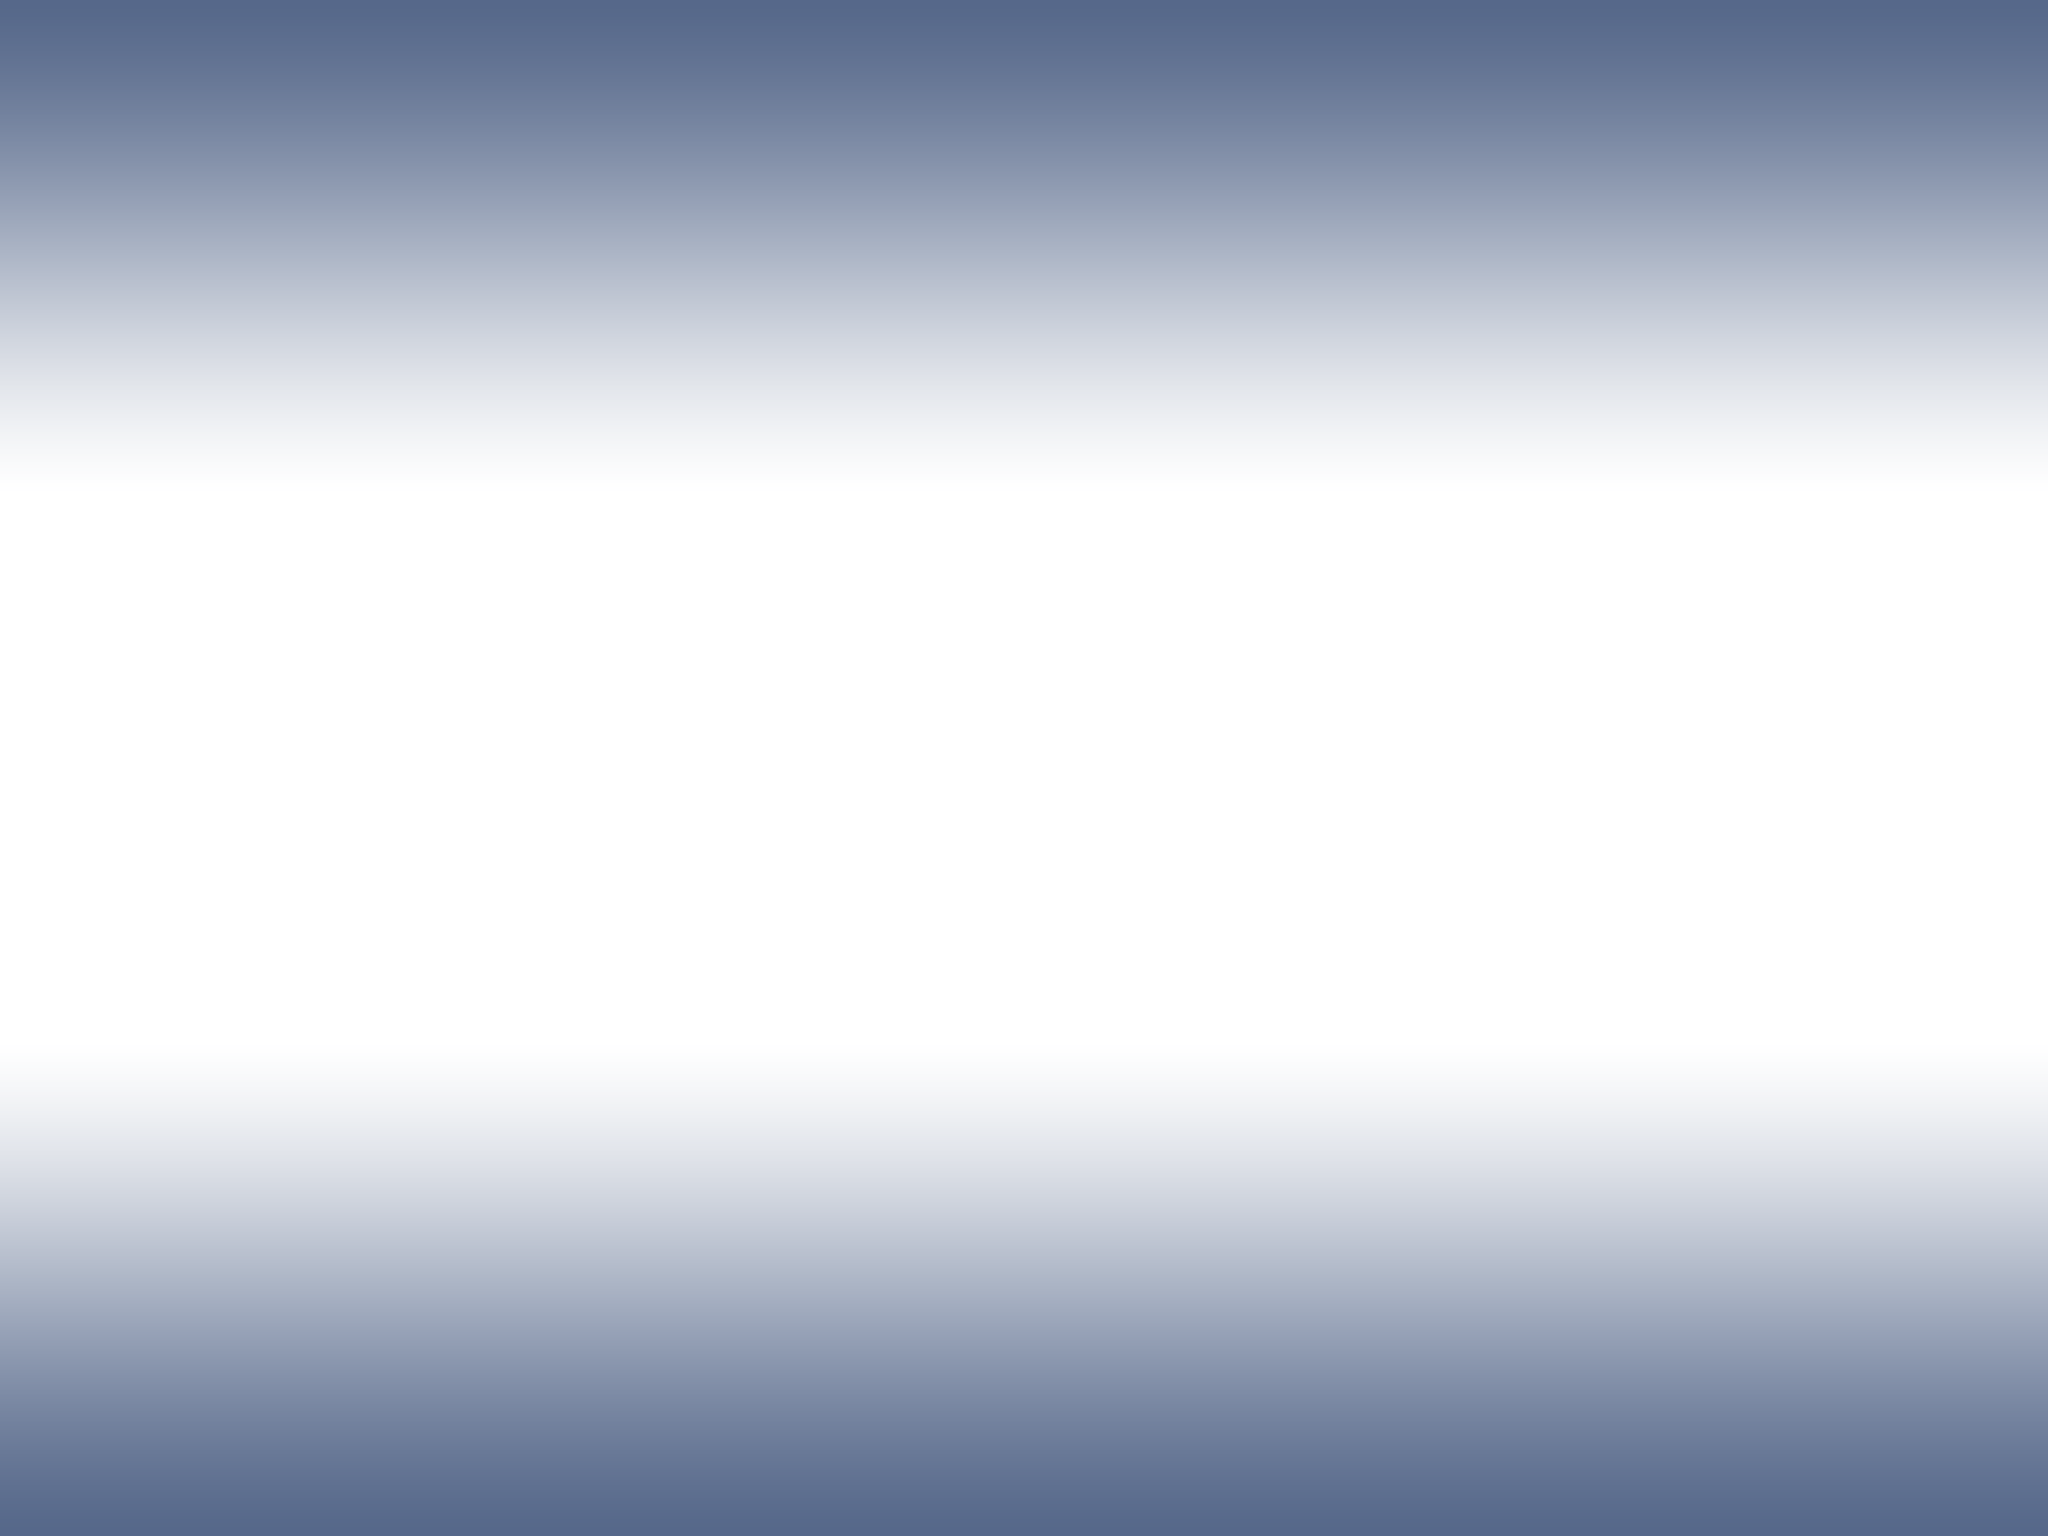
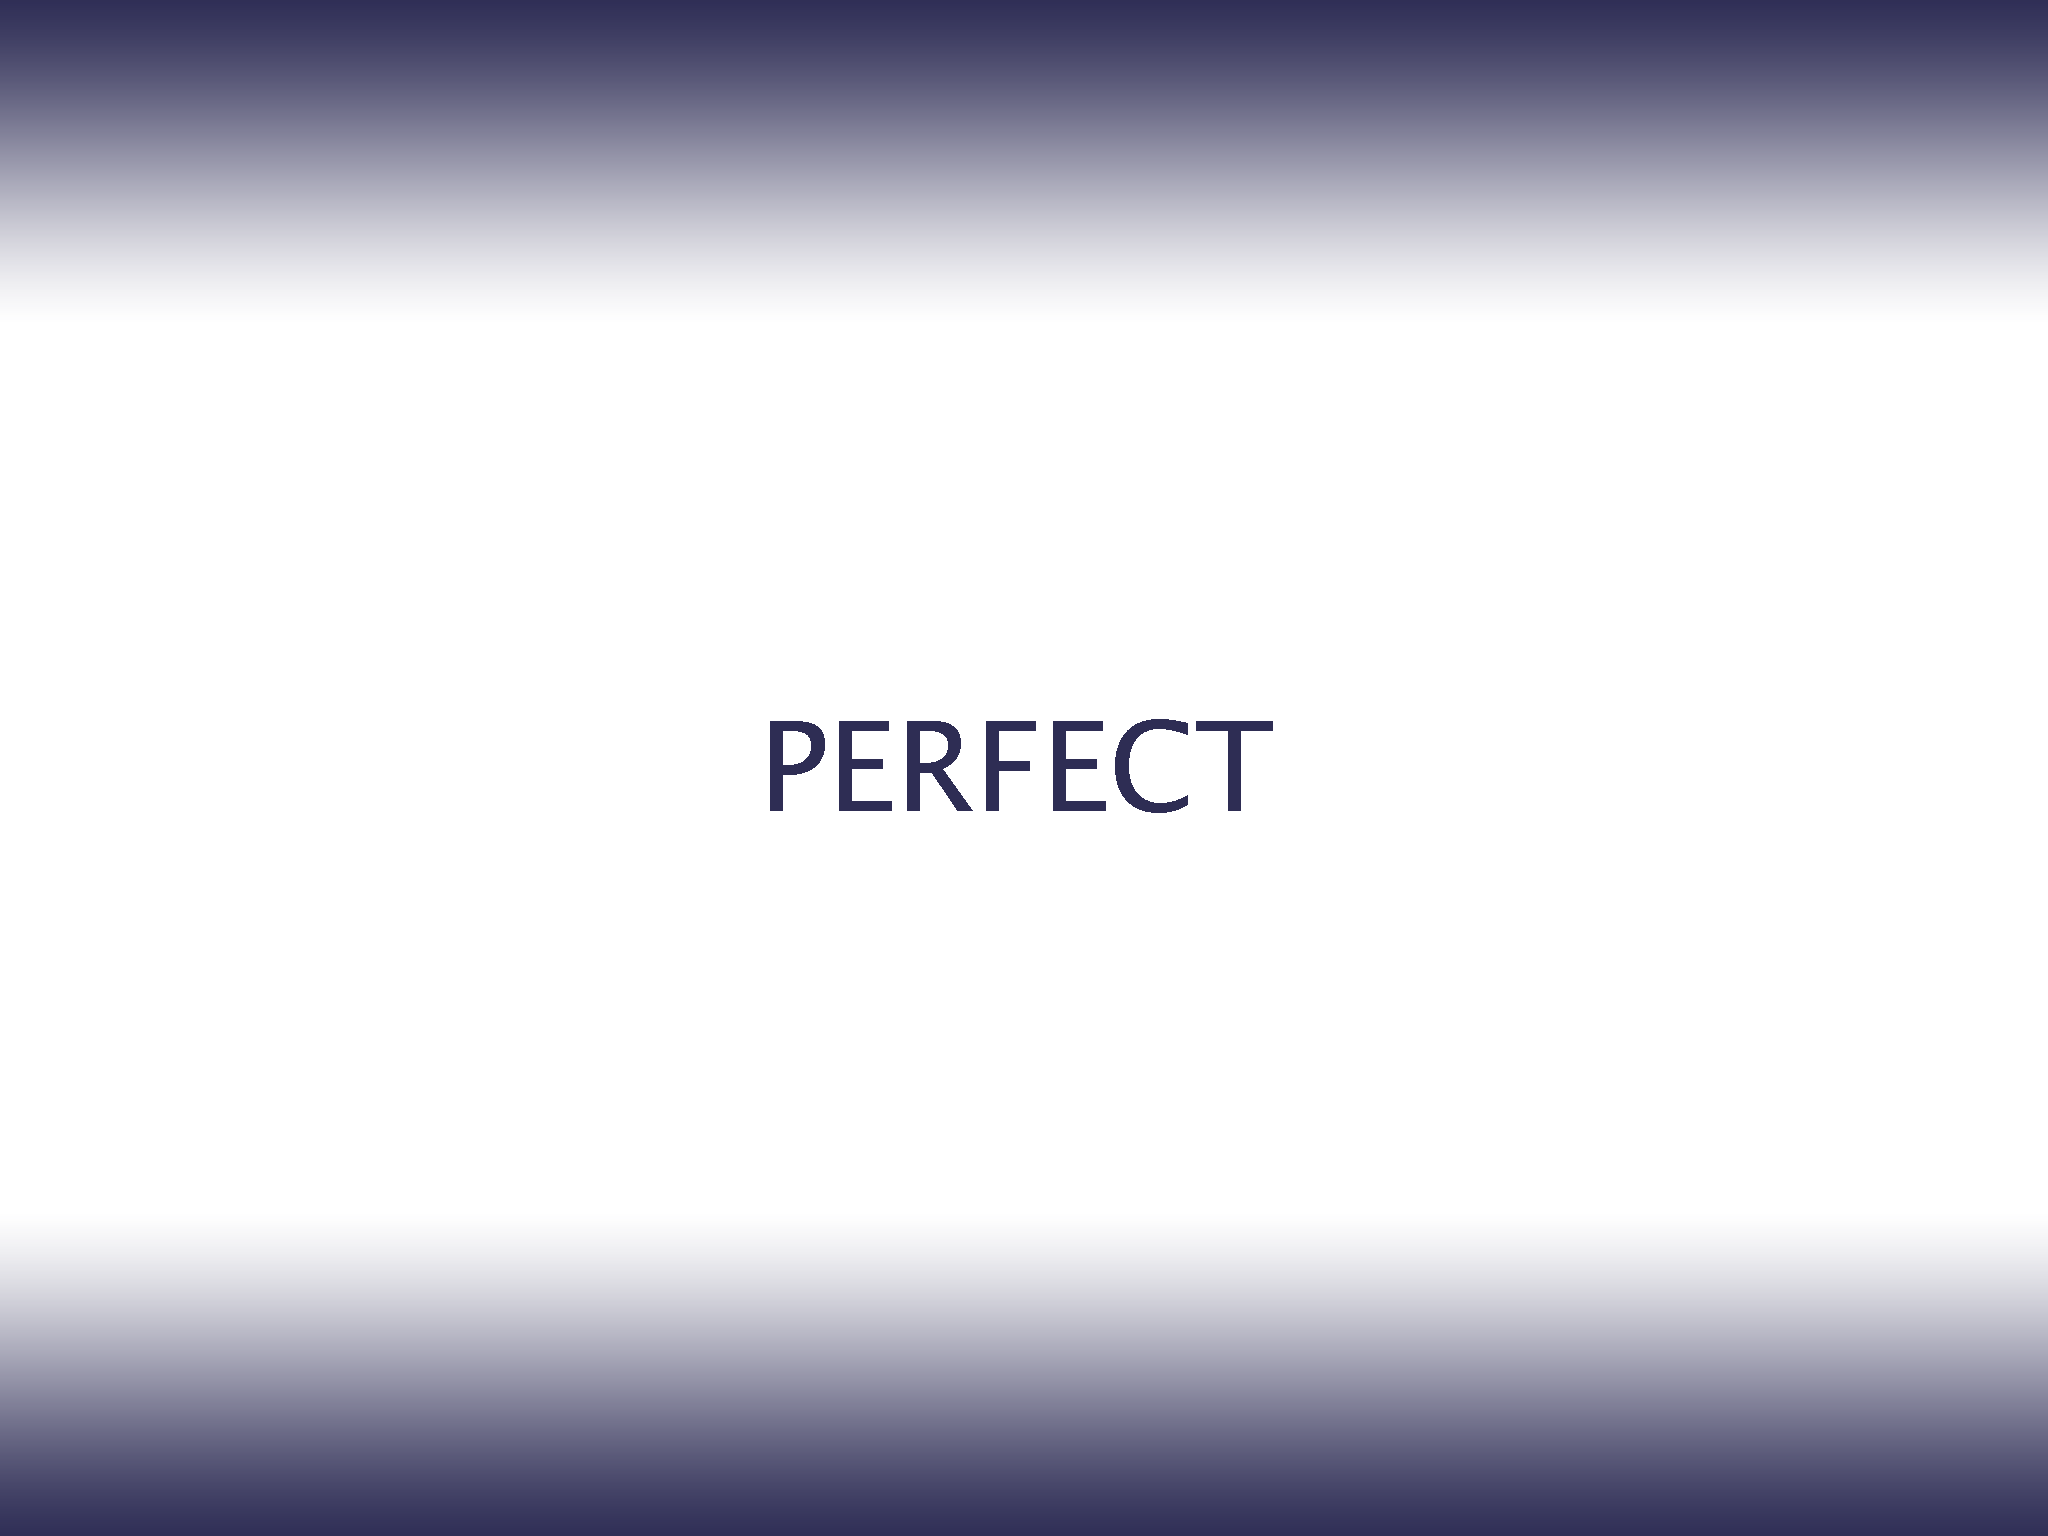
First Music

diff --git a/src/GameLayer.js b/src/GameLayer.js
@@ -1,4 +1,4 @@
-var gameScale = 0.25;
+var gameScale = 0.5;
 var screenWidth = 2048*gameScale;
 var screenHeight = 1536*gameScale;
 
@@ -12,7 +12,7 @@ var GameLayer = cc.LayerColor.extend({
         this.combo=0;
         this.perfect=0;
         this.great=0;
-        this.bad=0;
+        this.cool=0;
         this.miss=0;
 
         this._super( new cc.Color4B( 127, 127, 127, 255 ) );
@@ -28,10 +28,14 @@ var GameLayer = cc.LayerColor.extend({
         this.player.setPosition( GameLayer.PLAYER_POS );
         this.addChild( this.player );
 
+        this.crashEffect = new crashEffect(this);
+        this.addChild(this.crashEffect);
+
         this.state = GameLayer.STATES.FRONT;
         this.setKeyboardEnabled( true );
         this.scheduleUpdate();
         this.startGame();
+        this.startSong("sound");
         return true;
     },
     startGame: function() {
@@ -49,11 +53,17 @@ var GameLayer = cc.LayerColor.extend({
             var pos = this.units[i].getPosition();
             var endPos = new cc.Point( 2*screenWidth , pos.y );
             this.units[i].endPos = endPos;
+            if(i%2==0)
+                this.units[i].setRotation(90);
             var moveAction = cc.MoveTo.create( GameLayer.UNIT_VELOCITY+timePerGap*i+timeForStart, this.units[i].endPos );
             this.units[i].runAction( moveAction );
         }
     },
+    startSong: function( songKey){
+         this.sound = createjs.Sound.play(songKey);
+    },
     crashEffectPlay: function( type ) {
+        console.trace();
         var spu = GameLayer.SCORE_PER_UNIT;
         if(type=="perfect") {
             this.score+=(spu+GameLayer.SCORE_PER_COMBO*this.combo);
@@ -67,8 +77,8 @@ var GameLayer = cc.LayerColor.extend({
         }
         else if(type=="cool") {
             this.score+=(spu/4+GameLayer.SCORE_PER_COMBO*this.combo);
-            this.combo=0;
-            this.bad++;
+            this.combo++;
+            this.cool++;
         }
         else if(type=="miss") {
             this.combo=0;
@@ -81,8 +91,7 @@ var GameLayer = cc.LayerColor.extend({
         console.log("Score: "+this.score);
         console.log("Max Combo: "+this.maxCombo);
         console.log("Combo: "+this.combo);
-        var effect = new crashEffect(this,type);
-        this.addChild(effect);
+        this.crashEffect.reset(type);
     },
     isMaxCombo: function( combo ) {
         if(combo>this.maxCombo)
@@ -155,7 +164,7 @@ GameLayer.TURN = {
     RIGHT: 2
 }
 GameLayer.PLAYER_POS = new cc.Point( 3*screenWidth/4, screenHeight/2 );
-GameLayer.UNIT_NUMBER = 6;
+GameLayer.UNIT_NUMBER = 7;
 GameLayer.UNIT_GAP = (2*screenWidth)/GameLayer.UNIT_NUMBER;
 GameLayer.UNIT_VELOCITY = 7; //sec in one round
 GameLayer.UNIT_TURN_SPEED = 4;

diff --git a/main.js b/main.js
@@ -8,6 +8,8 @@ var cocos2dApp = cc.Application.extend({
         cc.initDebugSetting();
         cc.setup( this.config[ 'tag' ] );
         cc.AppController.shareAppController().didFinishLaunchingWithOptions();
+
+        createjs.Sound.registerSound("musics/roar-katyperry.mp3", "sound");
     },
 
     applicationDidFinishLaunching: function() {
@@ -22,10 +24,39 @@ var cocos2dApp = cc.Application.extend({
         // set FPS. the default value is 1.0/60 if you don't call this
         director.setAnimationInterval( 1.0 / this.config[ 'frameRate' ] );
 
-        director.runWithScene( new this.startScene() );
+        cc.LoaderScene.preload( this.config.resourceFiles , function(){
+            director.replaceScene( new this.startScene() );
+        } , this );
 
         return true;
     }
 });
+
+// monkey patching cocos audio engine to pause soundjs
+(function(){
+
+    var origPlay = createjs.Sound.play;
+    var soundList = [];
+    createjs.Sound.play = function(){
+        var sound = origPlay.apply(null, arguments);
+        soundList.push(sound);
+        return sound;
+    };
+    var origPauseMusic = cc.AudioEngine.getInstance().pauseMusic;
+    cc.AudioEngine.getInstance().pauseMusic = function(){
+        origPauseMusic.apply(cc.AudioEngine.getInstance());
+        soundList.forEach(function(sound){
+            sound.pause();
+        });
+    };
+    var origResumeMusic = cc.AudioEngine.getInstance().resumeMusic;
+    cc.AudioEngine.getInstance().resumeMusic = function(){
+        origResumeMusic.apply(cc.AudioEngine.getInstance());
+        soundList.forEach(function(sound){
+            sound.resume();
+        });
+    };
+
+})();
 
 var myApp = new cocos2dApp( StartScene );

diff --git a/src/Unit.js b/src/Unit.js
@@ -11,6 +11,7 @@ var Unit = cc.Sprite.extend({
         this.enabled = true;
         this.winkSpeed = 17/4;
         this.doneSpeed=1.3;
+        this.crashSpeed = Math.pow(1.7,3);
     },
     update: function( dt ) {
     	var pos = this.getPosition();
@@ -87,7 +88,9 @@ var Unit = cc.Sprite.extend({
        	this.runAction( moveAction );
     },
     hideUnit: function() {
-    	this.setOpacity( this.getOpacity()*0.7 );
+        if(this.getOpacity()/255 > Math.pow(0.7,10))
+    	   this.setOpacity( this.getOpacity()*0.7 );
+        else this.setOpacity(0);
     },
     doneUnit: function() {
         if(this.getScale()/gameScale == Math.pow(1.3,2))
@@ -95,7 +98,9 @@ var Unit = cc.Sprite.extend({
         this.setScale( this.getScale()*this.doneSpeed );
     },
     crashUnit: function() {
-        this.setScale( this.getScale()*1.7 );
+        if(this.getScale()/gameScale < this.crashSpeed)
+            this.setScale( this.getScale()*1.7 );
+        else this.setScale(0);
     },
     wink: function() {
     	var opacity = this.getOpacity();

diff --git a/src/crashEffect.js b/src/crashEffect.js
@@ -1,20 +1,26 @@
 var crashEffect = cc.Sprite.extend({
-    ctor: function( layer,type ) {
+    ctor: function( layer ) {
     	this.layer = layer;
         this._super();
-        var src = "images/"+type+"Effect.png";
-        this.initWithFile( src );
         this.scheduleUpdate();
         this.setScale(gameScale);
         this.effectHeight=491*gameScale;
         this.setPosition(new cc.Point( screenWidth/2, screenHeight/2));
-        this.diffOpac = 51;
-        this.setOpacity(0);
     },
     update: function( dt ) {
     	this.setOpacity(this.getOpacity()+this.diffOpac);
     	if(this.getOpacity()==255)
     		this.diffOpac=-17;
-    	if(this.getOpacity()==0) this.layer.removeChild(this); 
+        if(this.getOpacity() === 0){
+            this.unscheduleUpdate();
+        }
+    },
+
+    reset: function(type){
+        var src = "images/"+type+"Effect.png";
+        this.initWithFile( src );
+        this.diffOpac = 51;
+        this.setOpacity(0);
+        this.scheduleUpdate();
     }
 });

diff --git a/cocos2d.js b/cocos2d.js
@@ -17,6 +17,18 @@
             'src/Player.js',
             'src/Unit.js',
             'src/GameLayer.js'     //add your own files in order here
+        ],
+        resourceFiles: [
+            {src: 'images/coolEffect.png'},
+            {src: 'images/greatEffect.png'},
+            {src: 'images/ingameBG.png'},
+            {src: 'images/missEffect.png'},
+            {src: 'images/mute.png'},
+            {src: 'images/mys.png'},
+            {src: 'images/pause.png'},
+            {src: 'images/perfectEffect.png'},
+            {src: 'images/Player.png'},
+            {src: 'images/unit.png'},
         ]
     };
 

diff --git a/index.html b/index.html
@@ -21,7 +21,7 @@
     </style>
 </head>
 <body style="padding:0; margin: 0; background: #000;">
-<canvas id="gameCanvas" width="512" height="384"></canvas>
+<canvas id="gameCanvas" width="1024" height="768"></canvas>
 <script src="soundjs-0.5.2.min.js"></script>
 <script src="cocos2d.js"></script>
 </body>
